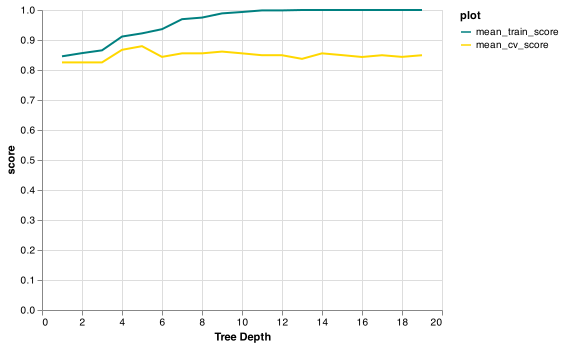
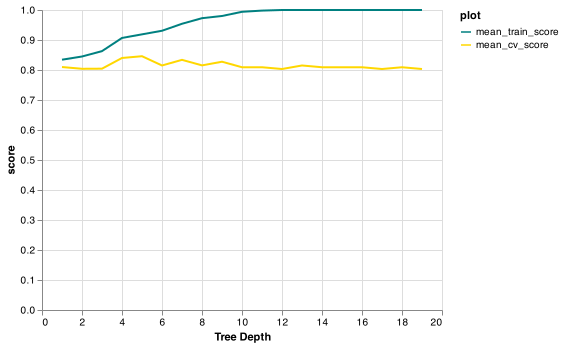
updated Module 1 and 3 and Module 4 exercises

Changed region(s): [[0.0904, 0.0288, 0.7535, 0.2017]]

diff --git a/exercises/en/exc_04_16.py b/exercises/en/exc_04_16.py
@@ -9,11 +9,11 @@ pokemon_df = pd.read_csv('data/pokemon.csv')
 train_df, test_df = train_test_split(pokemon_df, test_size=0.2, random_state=123)
 
 # Define X and y for the training set
-X_train = train_df.drop(columns = ['deck_no', 'name', 'type', 'legendary'])
+X_train = train_df.drop(columns = ['deck_no', 'name','total_bs', 'type', 'legendary'])
 y_train = train_df['legendary']
 
 # Define X and y for the test set 
-X_test = test_df.drop(columns = ['deck_no', 'name', 'type', 'legendary'])
+X_test = test_df.drop(columns = ['deck_no', 'name','total_bs', 'type', 'legendary'])
 y_test = test_df['legendary']
 
 # Create a KNeighborsClassifier model with n_neighbors equal to 5 and name it model

diff --git a/exercises/en/solution_04_16.py b/exercises/en/solution_04_16.py
@@ -9,11 +9,11 @@ pokemon_df = pd.read_csv('data/pokemon.csv')
 train_df, test_df = train_test_split(pokemon_df, test_size=0.2, random_state=123)
 
 # Define X and y for the training set
-X_train = train_df.drop(columns = ['deck_no', 'name', 'type', 'legendary'])
+X_train = train_df.drop(columns = ['deck_no', 'name','total_bs', 'type', 'legendary'])
 y_train = train_df['legendary']
 
 # Define X and y for the test set 
-X_test = test_df.drop(columns = ['deck_no', 'name', 'type', 'legendary'])
+X_test = test_df.drop(columns = ['deck_no', 'name','total_bs', 'type', 'legendary'])
 y_test = test_df['legendary']
 
 # Create a KNeighborsClassifier model with n_neighbors equal to 5 and name it model

diff --git a/exercises/en/solution_04_20a.py b/exercises/en/solution_04_20a.py
@@ -34,7 +34,7 @@ results_df = pd.DataFrame(results_dict).melt(id_vars=['n_neighbors'],
 # Create a chart that plots depth vs score
 chart1 = alt.Chart(results_df).mark_line().encode(
          alt.X('n_neighbors:Q', axis=alt.Axis(title="Number of Neighbours")),
-         alt.Y('score:Q', scale=alt.Scale(domain=[.80, 1.00])), 
+         alt.Y('score:Q', scale=alt.Scale(domain=[.95, 1.00])), 
          alt.Color('split:N', scale=alt.Scale(domain=['mean_train_score',
                                                      'mean_cv_score'],
                                              range=['teal', 'gold'])))

diff --git a/exercises/en/exc_04_20a.py b/exercises/en/exc_04_20a.py
@@ -34,7 +34,7 @@ results_df = pd.DataFrame(results_dict).melt(id_vars=['n_neighbors'],
 # Create a chart that plots depth vs score
 chart1 = alt.Chart(____).____().encode(
          alt.X('____:Q', axis=alt.Axis(title="Number of Neighbours")),
-         ____.____('score:Q', scale=alt.Scale(domain=[.80, 1.00])), 
+         ____.____('score:Q', scale=alt.Scale(domain=[.95, 1.00])), 
          alt.Color('split:N', scale=alt.Scale(domain=['mean_train_score',
                                                      'mean_cv_score'],
                                              range=['teal', 'gold'])))

diff --git a/exercises/en/solution_04_12.py b/exercises/en/solution_04_12.py
@@ -10,10 +10,9 @@ train_df, test_df = train_test_split(pokemon_df, test_size=0.2, random_state=123
 
 # Define X and y for the training
 X_train = train_df.drop(columns = ['deck_no', 'name','total_bs', 'type', 'legendary'])
-y_train = train_df['legendary']
 
 # The Snoodles query point
-query_point = [[53, 77, 43, 69, 80, 57, 379]]
+query_point = [[53, 77, 43, 69, 80, 57, 5]]
 
 # Create a model and name it nn (make sure you are finding the single closest pokemon)
 nn = NearestNeighbors(n_neighbors=1)

diff --git a/exercises/en/exc_04_12.py b/exercises/en/exc_04_12.py
@@ -10,10 +10,9 @@ train_df, test_df = train_test_split(pokemon_df, test_size=0.2, random_state=123
 
 # Define X and y for the training
 X_train = train_df.drop(columns = ['deck_no', 'name','total_bs', 'type', 'legendary'])
-y_train = train_df['legendary']
 
 # The Snoodles query point
-query_point = [[53, 77, 43, 69, 80, 57, 379]]
+query_point = [[53, 77, 43, 69, 80, 57, 5]]
 
 # Create a model and name it nn (make sure you are finding the single closest pokemon)
 ____ = ____

diff --git a/exercises/en/exc_04_27.py b/exercises/en/exc_04_27.py
@@ -6,8 +6,8 @@ from sklearn.model_selection import train_test_split
 pokemon_df = pd.read_csv('data/pokemon.csv')
 
 # Define X and y
-X = pokemon_df.drop(columns = ['deck_no', 'name','total_bs', 'type', 'legendary', 'capture_rt'])
-y = pokemon_df['capture_rt']
+X = pokemon_df.drop(columns = ['deck_no', 'name','total_bs', 'type', 'legendary'])
+y = pokemon_df['legendary']
 
 # Split the dataset
 X_train, X_test, y_train, y_test = train_test_split(

diff --git a/exercises/en/solution_04_27.py b/exercises/en/solution_04_27.py
@@ -6,8 +6,8 @@ from sklearn.model_selection import train_test_split
 pokemon_df = pd.read_csv('data/pokemon.csv')
 
 # Define X and y
-X = pokemon_df.drop(columns = ['deck_no', 'name','total_bs', 'type', 'legendary', 'capture_rt'])
-y = pokemon_df['capture_rt']
+X = pokemon_df.drop(columns = ['deck_no', 'name','total_bs', 'type', 'legendary'])
+y = pokemon_df['legendary']
 
 # Split the dataset
 X_train, X_test, y_train, y_test = train_test_split(

diff --git a/chapters/en/module4.md b/chapters/en/module4.md
@@ -452,7 +452,7 @@ Let's calculate the closet Pokémon in the training set to a Snoodle (our made-u
 Snoodle	has the following feature vector. 
 
 ```out
-[[53,  77,  43,  69,  80,  57,  379]]
+[[53,  77,  43,  69,  80,  57,  5]]
 ```
 Which Pokémon in the training set, most resembles a Snoodle?
 
@@ -910,7 +910,7 @@ We did the same process of cross validation and scoring as we did before but we 
 
 This model didn't end up having a clear best score when we hyperparameter tuned but in the end, we decided to use `n_neighbors=12`.
 
-Let's build a KNeighborsRegressor with this hyperparameter value and see how well does your model do on the test data?
+Let's build a `KNeighborsRegressor` with this hyperparameter value and see how well your model does on the test data.
 
 Tasks:     
 
@@ -1037,21 +1037,19 @@ Tasks:
 Does this model give similar results to 𝑘-NN?
 
 <choice id="1" >
-<opt text="Yes" >
+<opt text="Yes"  correct="true">
 
-We got around .80 with 𝑘-NN, do you think that this is close enough?
+We got around .9 with 𝑘-NN as well!
 
 </opt>
 
-<opt text="No" correct="true">
+<opt text="No">
 
-It seems like we have some hyperparameters to tune and/or this may not be the best model for us this time.
+We got a score around 0.9 with 𝑘-NN .
 
 </opt>x
 
 </choice>
-
-The results may be explained because of of the fact we are not scaling our column values. We will be covering this in the next model!
 
 </exercise>
 

diff --git a/chapters/en/slides/module3/module3_17.md b/chapters/en/slides/module3/module3_17.md
@@ -107,11 +107,11 @@ results_df
 3       4          0.906865       0.840074
 4       5          0.918848       0.845956
 ..    ...               ...            ...
-14     15          1.000000       0.815074
+14     15          1.000000       0.809191
 15     16          1.000000       0.809191
-16     17          1.000000       0.809191
-17     18          1.000000       0.803309
-18     19          1.000000       0.809191
+16     17          1.000000       0.803309
+17     18          1.000000       0.809191
+18     19          1.000000       0.803309
 
 [19 rows x 3 columns]
 ```
@@ -159,12 +159,12 @@ Name: 4, dtype: float64
 ```
 
 ``` python
-best_depth = results_df.sort_values('mean_cv_score', ascending=False).iloc[0]['mean_cv_score']
+best_depth = results_df.sort_values('mean_cv_score', ascending=False).iloc[0]['depth']
 best_depth
 ```
 
 ```out
-0.8459558823529412
+5.0
 ```
 
 ``` python
@@ -174,7 +174,7 @@ print("Score on test set: " + str(round(model.score(X_test, y_test), 2)))
 ```
 
 ```out
-Score on test set: 0.67
+Score on test set: 0.81
 ```
 
 Notes:
@@ -203,7 +203,11 @@ Even though we care the most about test error:
 
 <br>
 
-<img src="/module3/gavel.png" alt="A caption" width="50%" />
+<center>
+
+<img src="/module3/gavel.png" alt="A caption" width="65%" />
+
+</center>
 
 Notes:
 

diff --git a/chapters/en/slides/module1/module1_13.md b/chapters/en/slides/module1/module1_13.md
@@ -15,7 +15,7 @@ Notes: <br>
 
 <center>
 
-<img src="/module1/sup-learning.png" height="1200" width="1200">
+<img src="/module1/sup-learning.png"  alt="A caption" width="80%" />
 
 </center>
 
@@ -247,7 +247,7 @@ Sometimes you will also see people reporting error, which is usually
 </center>
 
 ``` python
-print("The accuracy of the model on the training data: %0.3f" %(dummy_clf.score(X, y)))
+print("The accuracy of the model on the training data:", (dummy_clf.score(X, y).round(3)))
 ```
 
 ```out
@@ -255,7 +255,7 @@ The accuracy of the model on the training data: 0.524
 ```
 
 ``` python
-print("The error of the model on the training data: %0.3f" %(1 - dummy_clf.score(X, y)))
+print("The error of the model on the training data:", (1 - dummy_clf.score(X, y)).round(3))
 ```
 
 ```out

diff --git a/chapters/en/slides/module9/module9_00.md b/chapters/en/slides/module9/module9_00.md
@@ -25,7 +25,7 @@ Notes:
 
 - Material from UBC's <a href="https://github.com/UBC-MDS/DSCI_571_sup-learn-1" target="_blank">DSCI 571: Supervised Learning I</a> by <a href="https://kvarada.github.io/" target="_blank">Varada Kolhatkar</a>.
 - Material from UBC's <a href="https://github.com/UBC-CS/cpsc330" target="_blank">CPSC330 course</a> by <a href="www.mikegelbart.com" target="_blank">Mike Gelbart</a>.
-- Materials derived from slides originally created by <a href="https://www.cs.ubc.ca/~schmidtm/" target="_blank"> Mark Schmidt</a>.
+- Material originally from UBC's <a href="https://www.cs.ubc.ca/~schmidtm/Courses/340-F19/" target="_blank">CPSC340 course/a>  by <a href="https://www.cs.ubc.ca/~schmidtm/" target="_blank"> Mark Schmidt</a>.
 
 
 Notes: 
